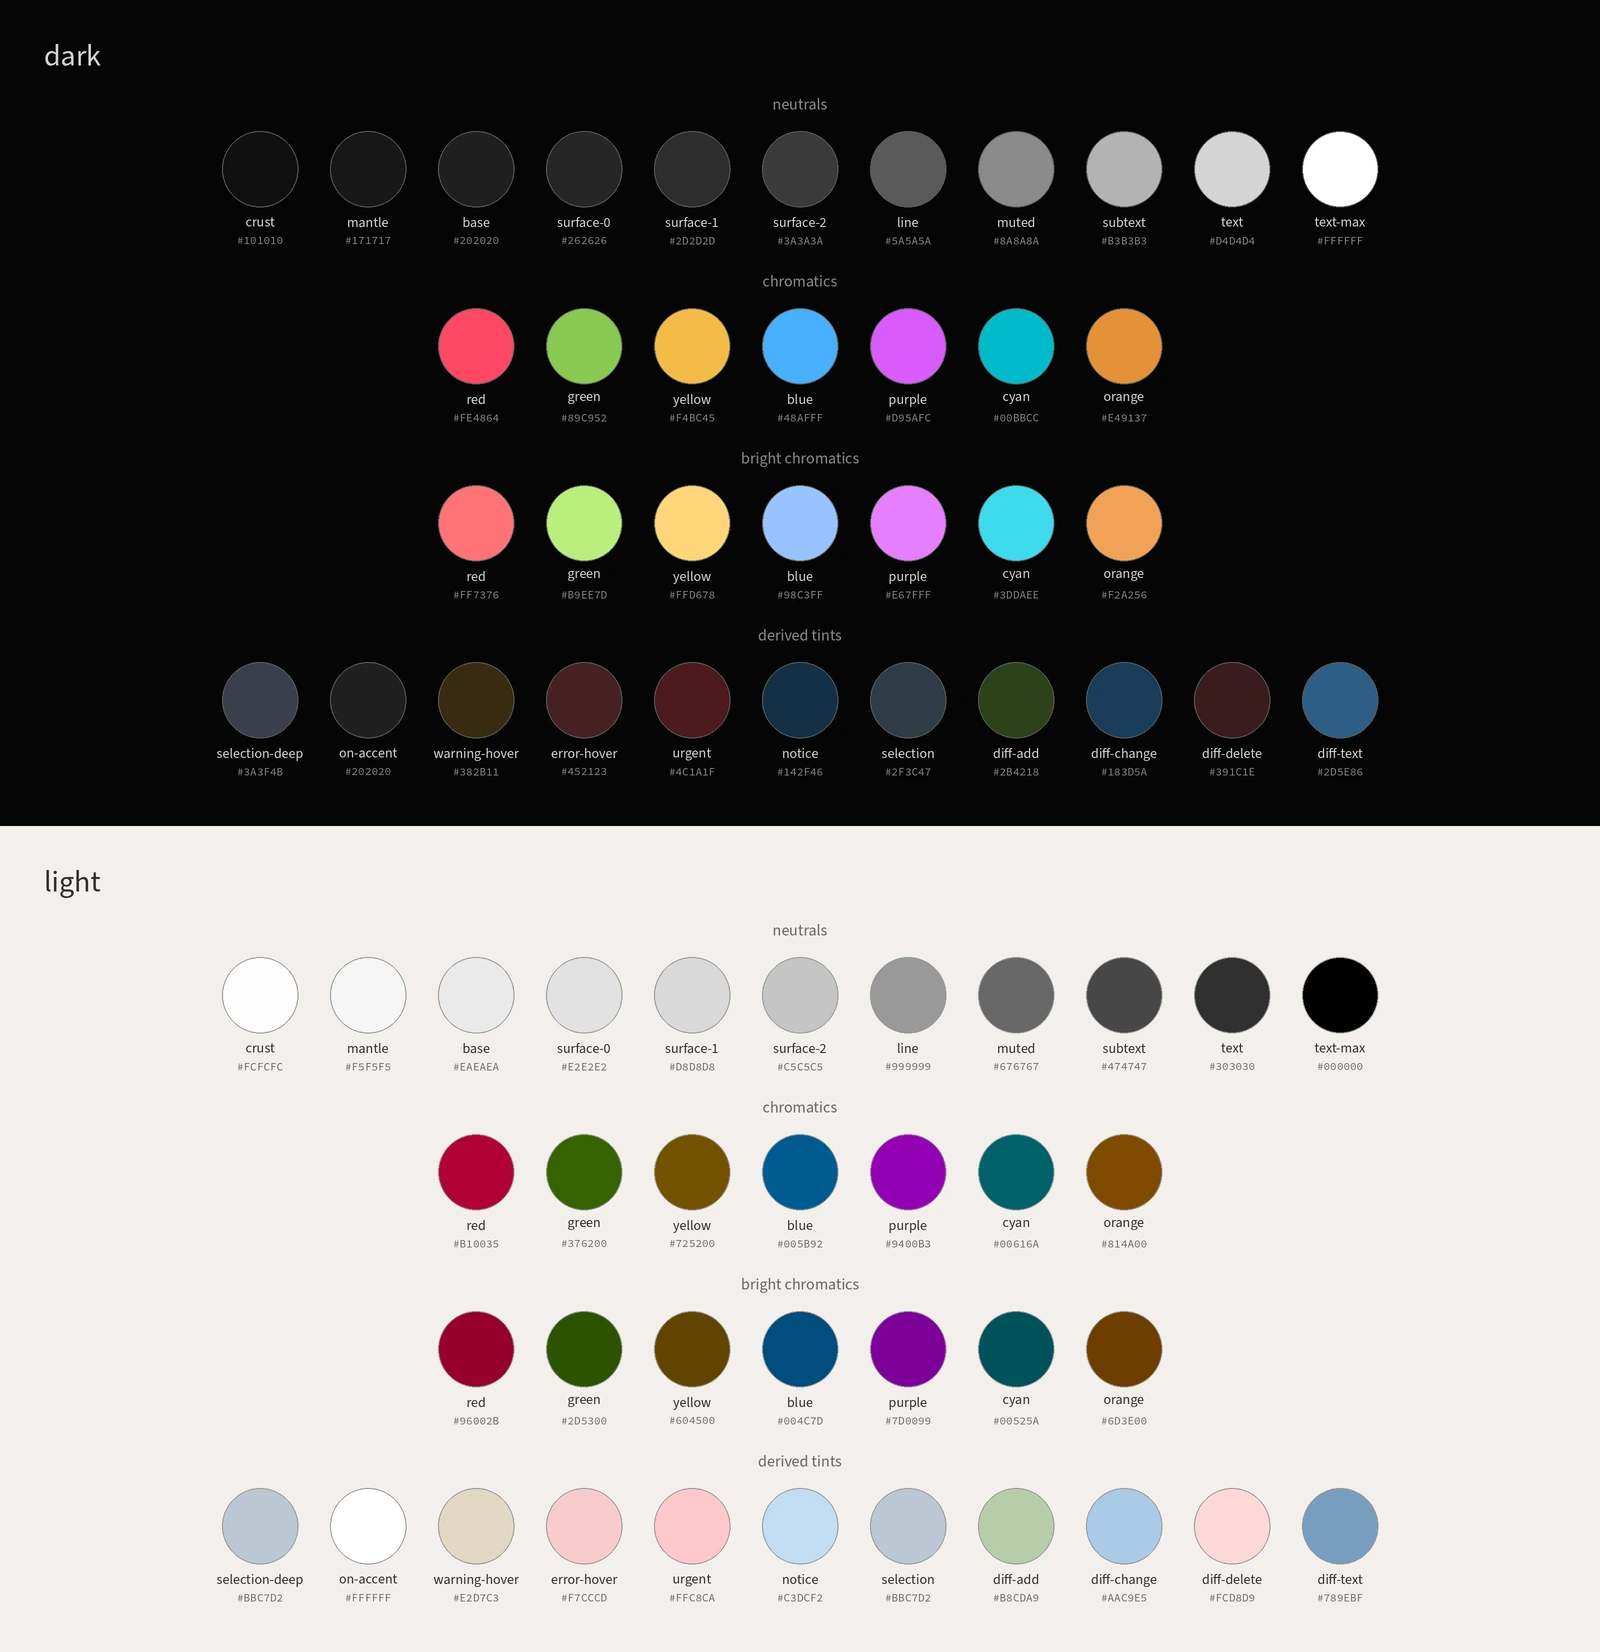
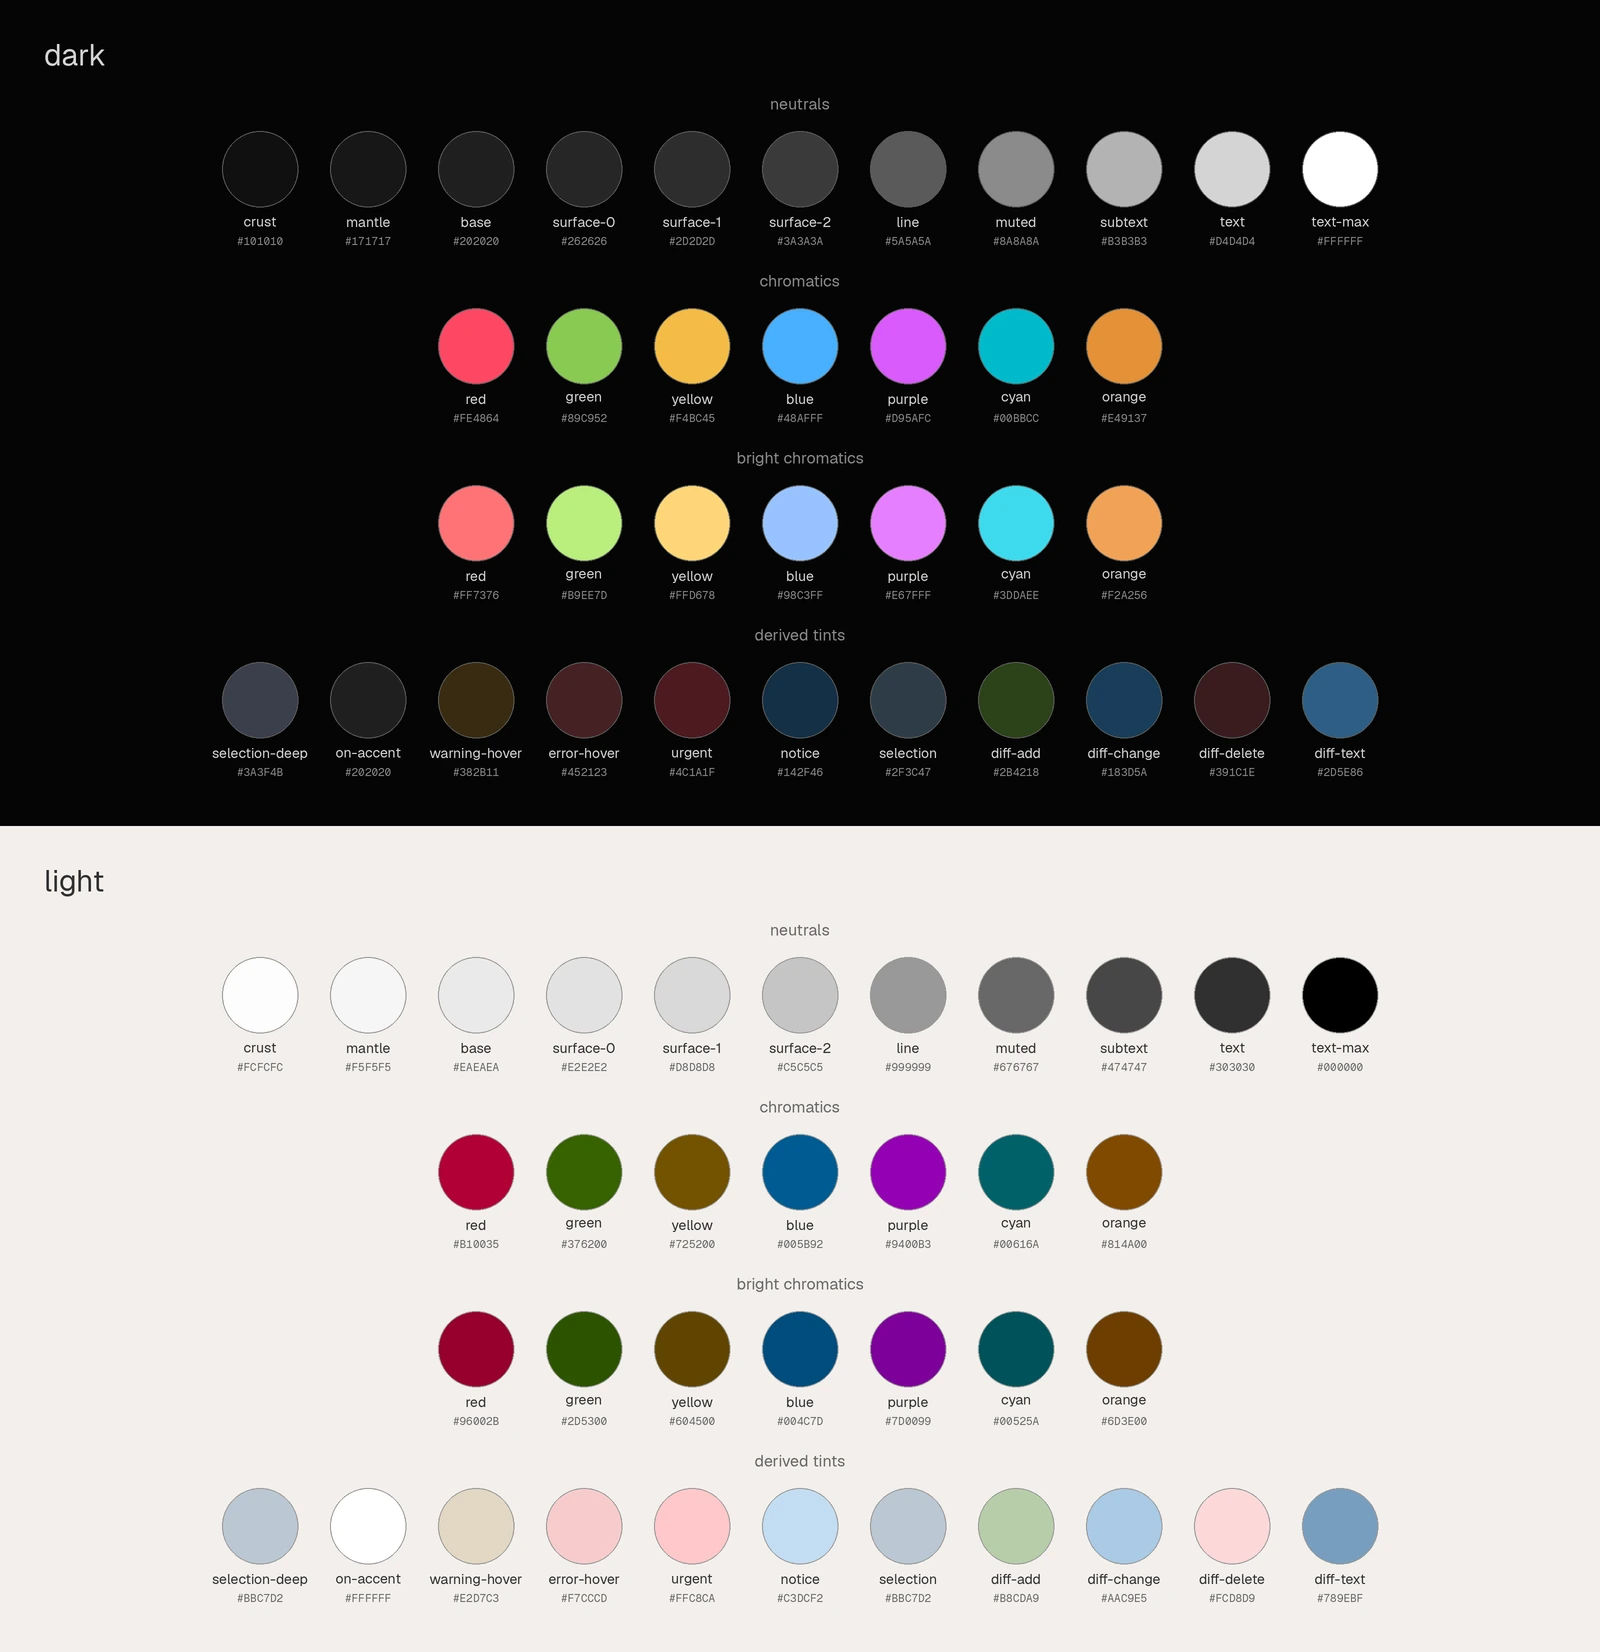
feat(fonts): switch the desktop to Geist
Use Geist for UI text and Geist Mono for code, with
GeistMono Nerd Font for symbol glyphs. Keep Noto Sans CJK JP
for CJK coverage.

Install the Geist families from the AUR and the Nerd Font
variant from pacman, and drop the Adobe Source fonts.

diff --git a/meta/palette-card.py b/meta/palette-card.py
@@ -87,8 +87,8 @@ def scaled(value: float) -> float:
 def main() -> int:
     """Render the palette card to docs/images/palette.webp."""
     pal = palette.load()
-    body = resolve_font("Source Sans 3")
-    mono = resolve_font("Source Code Pro") or body
+    body = resolve_font("Geist")
+    mono = resolve_font("Geist Mono") or body
     header_font = load_font(body, int(scaled(HEADER_SIZE)))
     section_font = load_font(body, int(scaled(SECTION_SIZE)))
     name_font = load_font(body, int(scaled(NAME_SIZE)))
